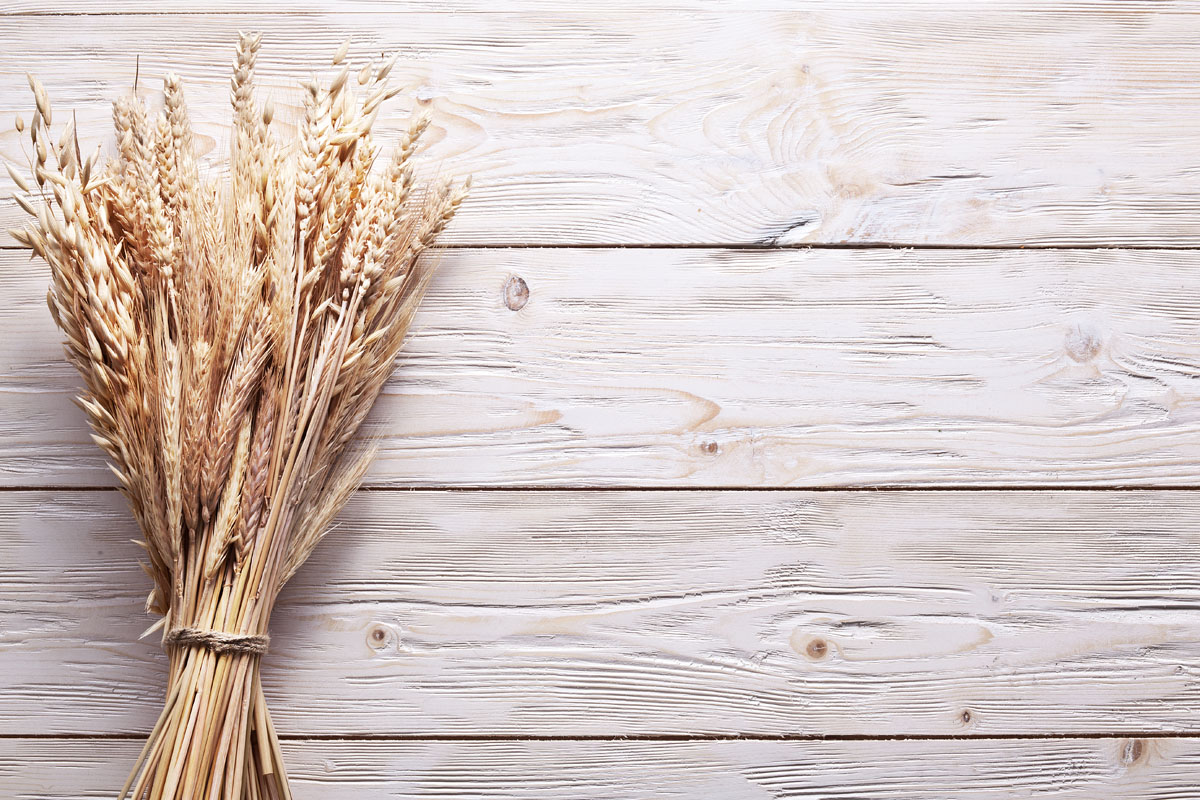
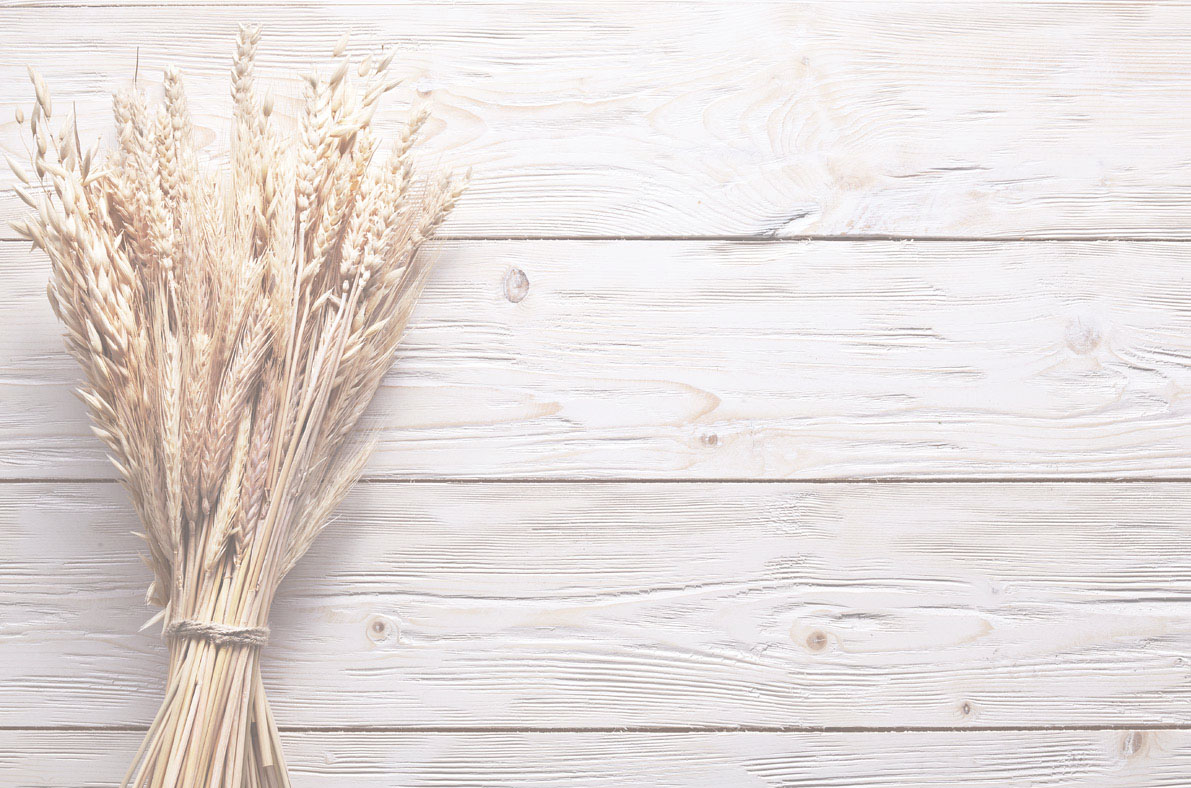
added screenshots and updated background images

diff --git a/styles/layout.scss b/styles/layout.scss
@@ -24,14 +24,14 @@ html {
     color: #edcf2a;
     padding: 17%;
     background: url("/images/food-spread.jpg");
-    background-position: 50%;
+    background-position: 60%;
     font-size: 10em;
     font-family: 'Roboto Condensed', sans-serif;
 }
 
 .main-header .main-header-text {
 
-    color: white;
+    color: #ffffff;
     -webkit-background-clip: text;
     background-clip: text;
 }
@@ -46,7 +46,7 @@ html {
 .second-header {
     padding-top: 2%;
     font-family: 'Roboto Condensed', sans-serif;
-    color: black;
+    color: #827c79;
 }
 
 .restaurant-button input{
@@ -81,7 +81,7 @@ html {
 
 .menu-header {
     background: url("/images/food-spread.jpg");
-    background-position: 30%;
+    background-position: 60%;
     padding: 120px;
     position: fixed;
     height: 20em;
@@ -89,9 +89,8 @@ html {
     margin-top: 0;
 }
 .menu-header-text {
-    margin-left: 37%;
-    background: rgb(0, 0, 0);
-    width: 30%;
+    margin: auto;
+    width: 40%;
     border-radius: 17px;
 }
 //
@@ -115,6 +114,7 @@ html {
     padding-left: 5%;
     font-family: 'Roboto Condensed', sans-serif;
     border-radius: 17px;
+    position: relative;
 }
 
 .form-group {
@@ -146,7 +146,7 @@ html {
 
 .item-2 {
     margin-left:15%;
-    
+
 }
 
 .item-list {
@@ -159,7 +159,7 @@ html {
 .item-3 {
     margin-top: 5%;
     margin-left:15%;
-    
+
 }
 .name-form {
     margin-right: 50%;
@@ -172,7 +172,7 @@ html {
     margin-right: 50%;
     border-radius: 12px;
     width: 40%;
-    
+
 }
 
 .place-order {
@@ -183,15 +183,20 @@ html {
     margin-left:35%;
     width:10em;
     height: 4em;
-    background: rgb(210, 241, 245);
-    border-color: darkgrey;
+    background: white;
+    border-color: #afa8af;
+}
+
+.place-order:hover {
+background-color: #b2edf5;
+
 }
 
 .total-price {
     margin-top: 1.5%;
     margin-bottom: 1.5%;
     margin-left:15%;
-    
+
 }
 
 .total-price input#total-price {
@@ -286,7 +291,7 @@ html {
     margin-left:38%;
     width:8em;
     border-radius: 17px;
-    
+
 
 }
 
@@ -295,3 +300,11 @@ html {
    background-color: #f2eef1;
    border-color: #b89f95;
 }
+
+.btn-secondary:hover {
+    color: #fff;
+    background-color: #bbbec5;
+    border-color: #545b62;
+}
+
+

diff --git a/server.js b/server.js
@@ -71,7 +71,7 @@ app.post("/order", (req, res) => {
 
     // Deletes ALL existing entries\
   let order;
- 
+
   let hamburgerID = knex('table_items').select('id').where({item: 'Hamburguer'});
   let sushiID = knex('table_items').select('id').where('item', 'Sushi');
   let cokeID = knex('table_items').select('id').where('item', 'Coke');
@@ -139,14 +139,15 @@ app.post("/restaurant", (req, res) => {
     phone = data[0].user_phone
     console.log("phone", phone)
       client.messages.create({
-        body:`-
-          ${body.restaurant} is working
-          on your order!
-          Estimated time is
-          ${body.time} minutes.
-          ${body.restaurant}
-          says,
-          ${body.message}
+      body:`-
+      ${body.restaurant}
+       is working
+       on your order!
+       Estimated time is
+       ${body.time} minutes.
+       ${body.restaurant}
+       says,
+       ${body.message}
           `,
         to: `+1${phone}`,  // Text this number
         from: '+12892174594', // From a valid Twilio number

diff --git a/public/scripts/app.js b/public/scripts/app.js
@@ -15,6 +15,8 @@ function sucessOrder(data) {
         <p style="margin: 10px"> ${data.Cokes} Cokes </p>
         <p style="margin: 10px"> ${data.Orange_Juice} OJs </p>
         <p style="margin: 10px"> Order Total ${data.Total} </p>
+        <p style="margin: 10px"> Pay with card below or pay at pickup! </p>
+
 
     </div>
     <form action="/payment" method="POST">
